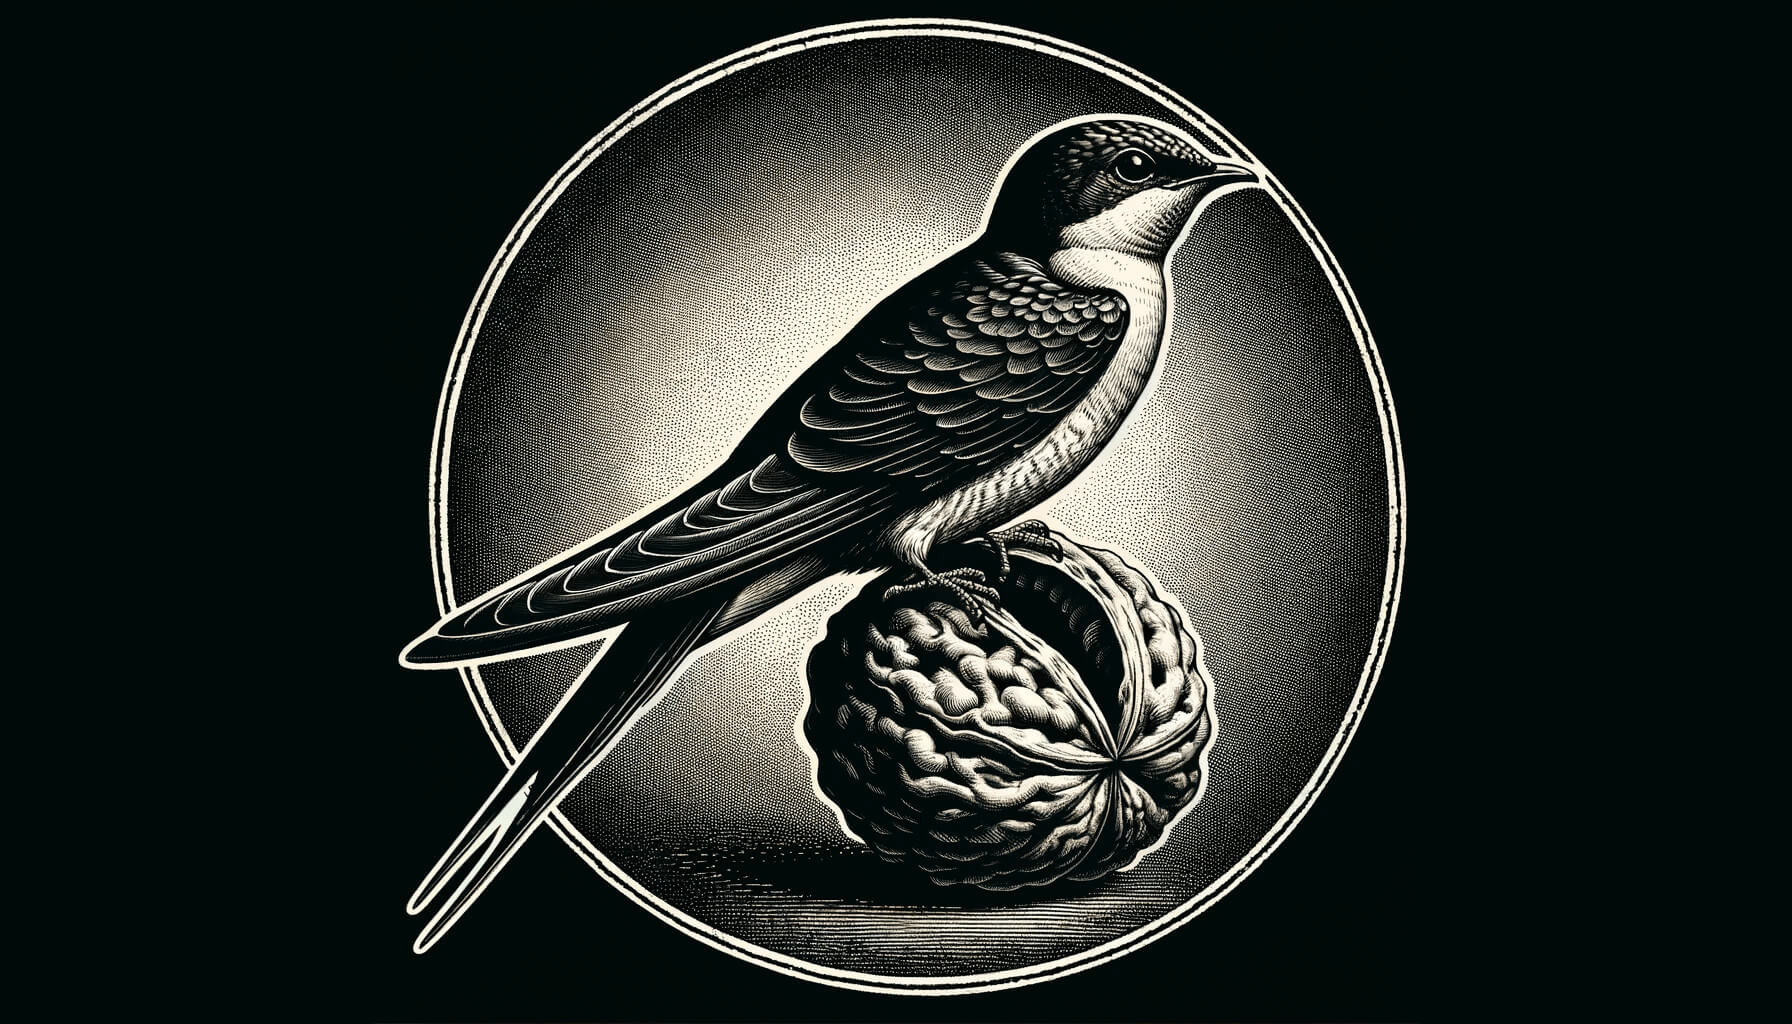
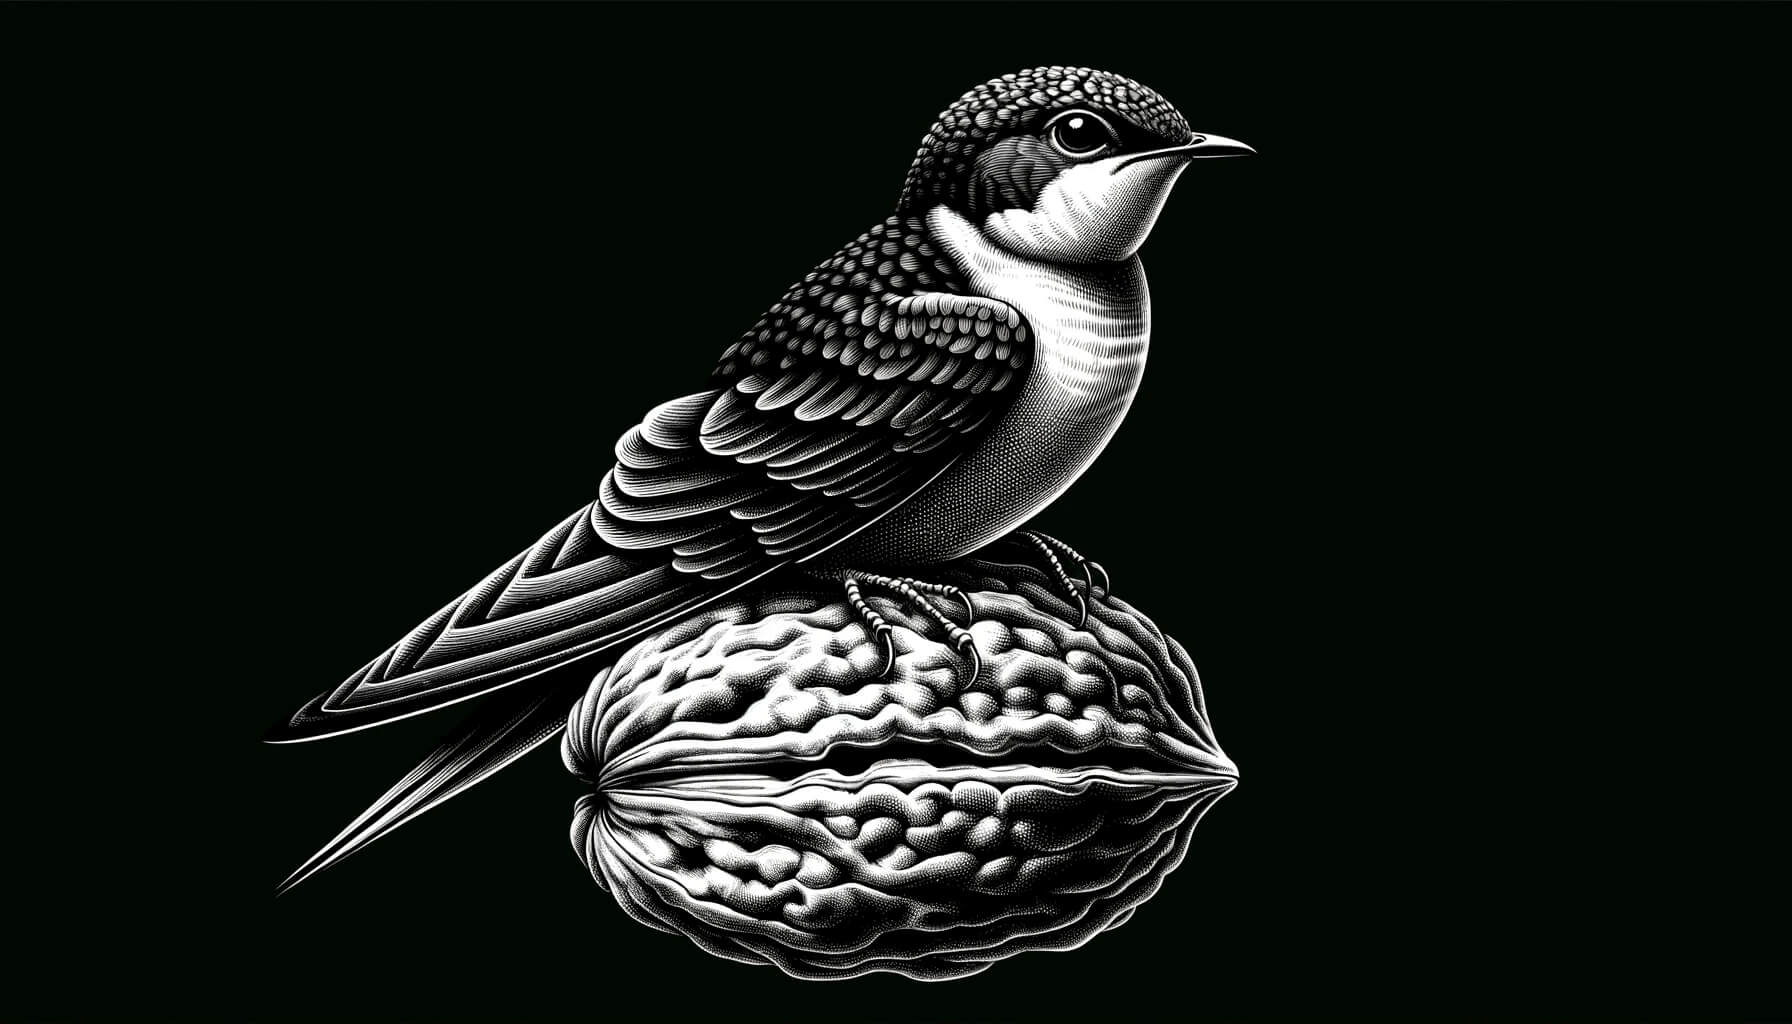
new image

diff --git a/_posts/2023-11-14-swift-concurrency-in-a-nutshell.md b/_posts/2023-11-14-swift-concurrency-in-a-nutshell.md
@@ -5,7 +5,7 @@ description: This article offers an overview of Swift's Concurrency, detailing i
 author: d_petrilli 
 tags: [swift, apple, xcode]
 color: rgb(251,87,66) # this is Bedrock color here
-thumbnail: /images/posts/2023-11-14-swift-concurrency-in-a-nutshell/thumbnail-2.jpg
+thumbnail: /images/posts/2023-11-14-swift-concurrency-in-a-nutshell/thumbnail.jpg
 ---
 As modern apps grow in complexity and features, the need for multitasking to enhance the user experience becomes evident. Whether processing large datasets or querying multiple systems over the network, concurrency is essential.
 
